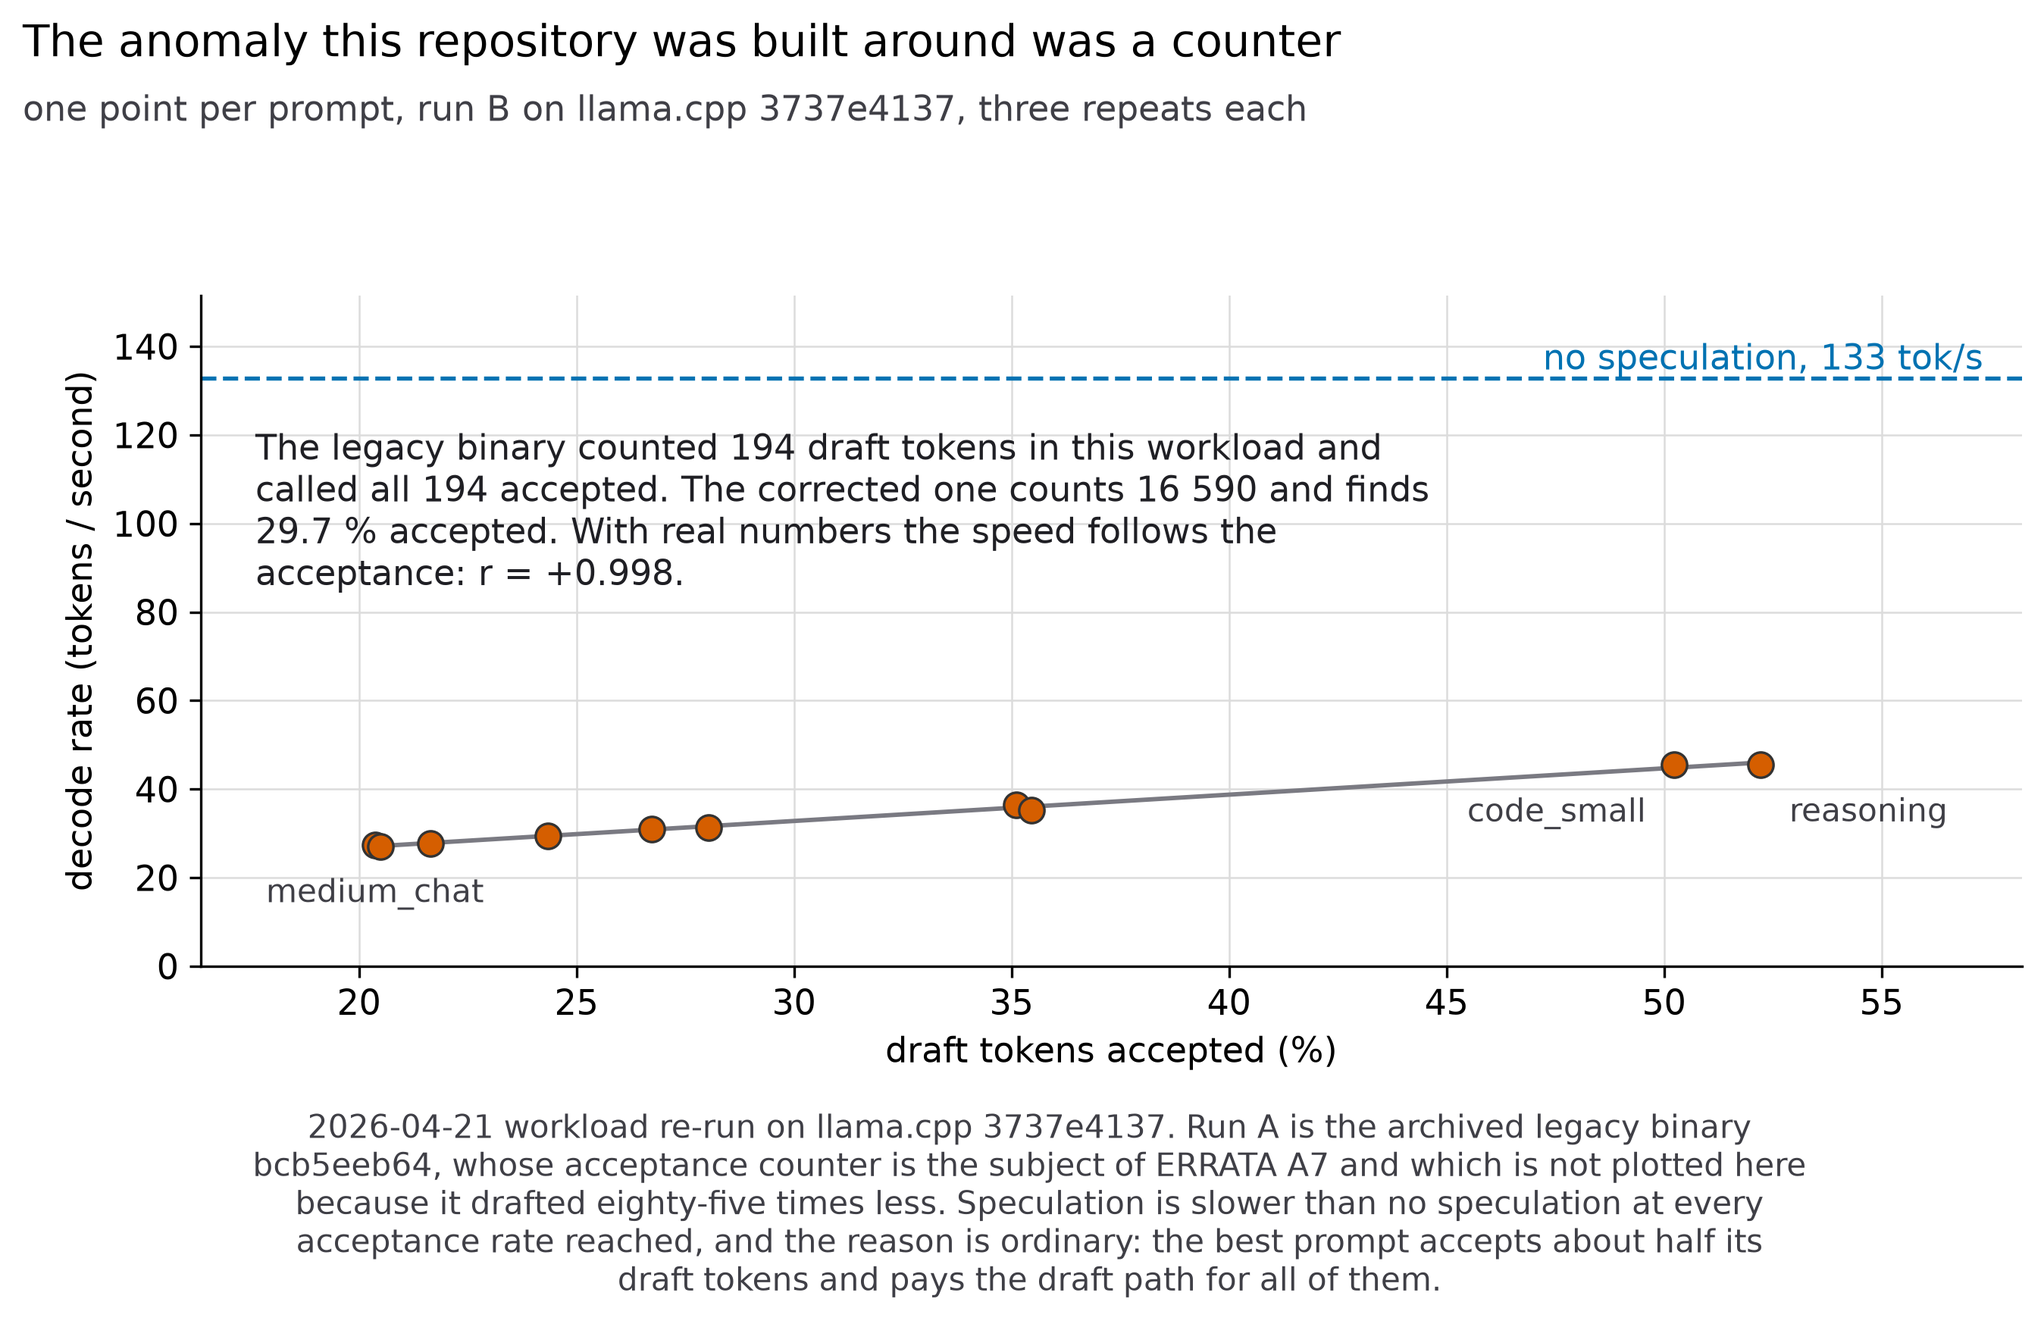
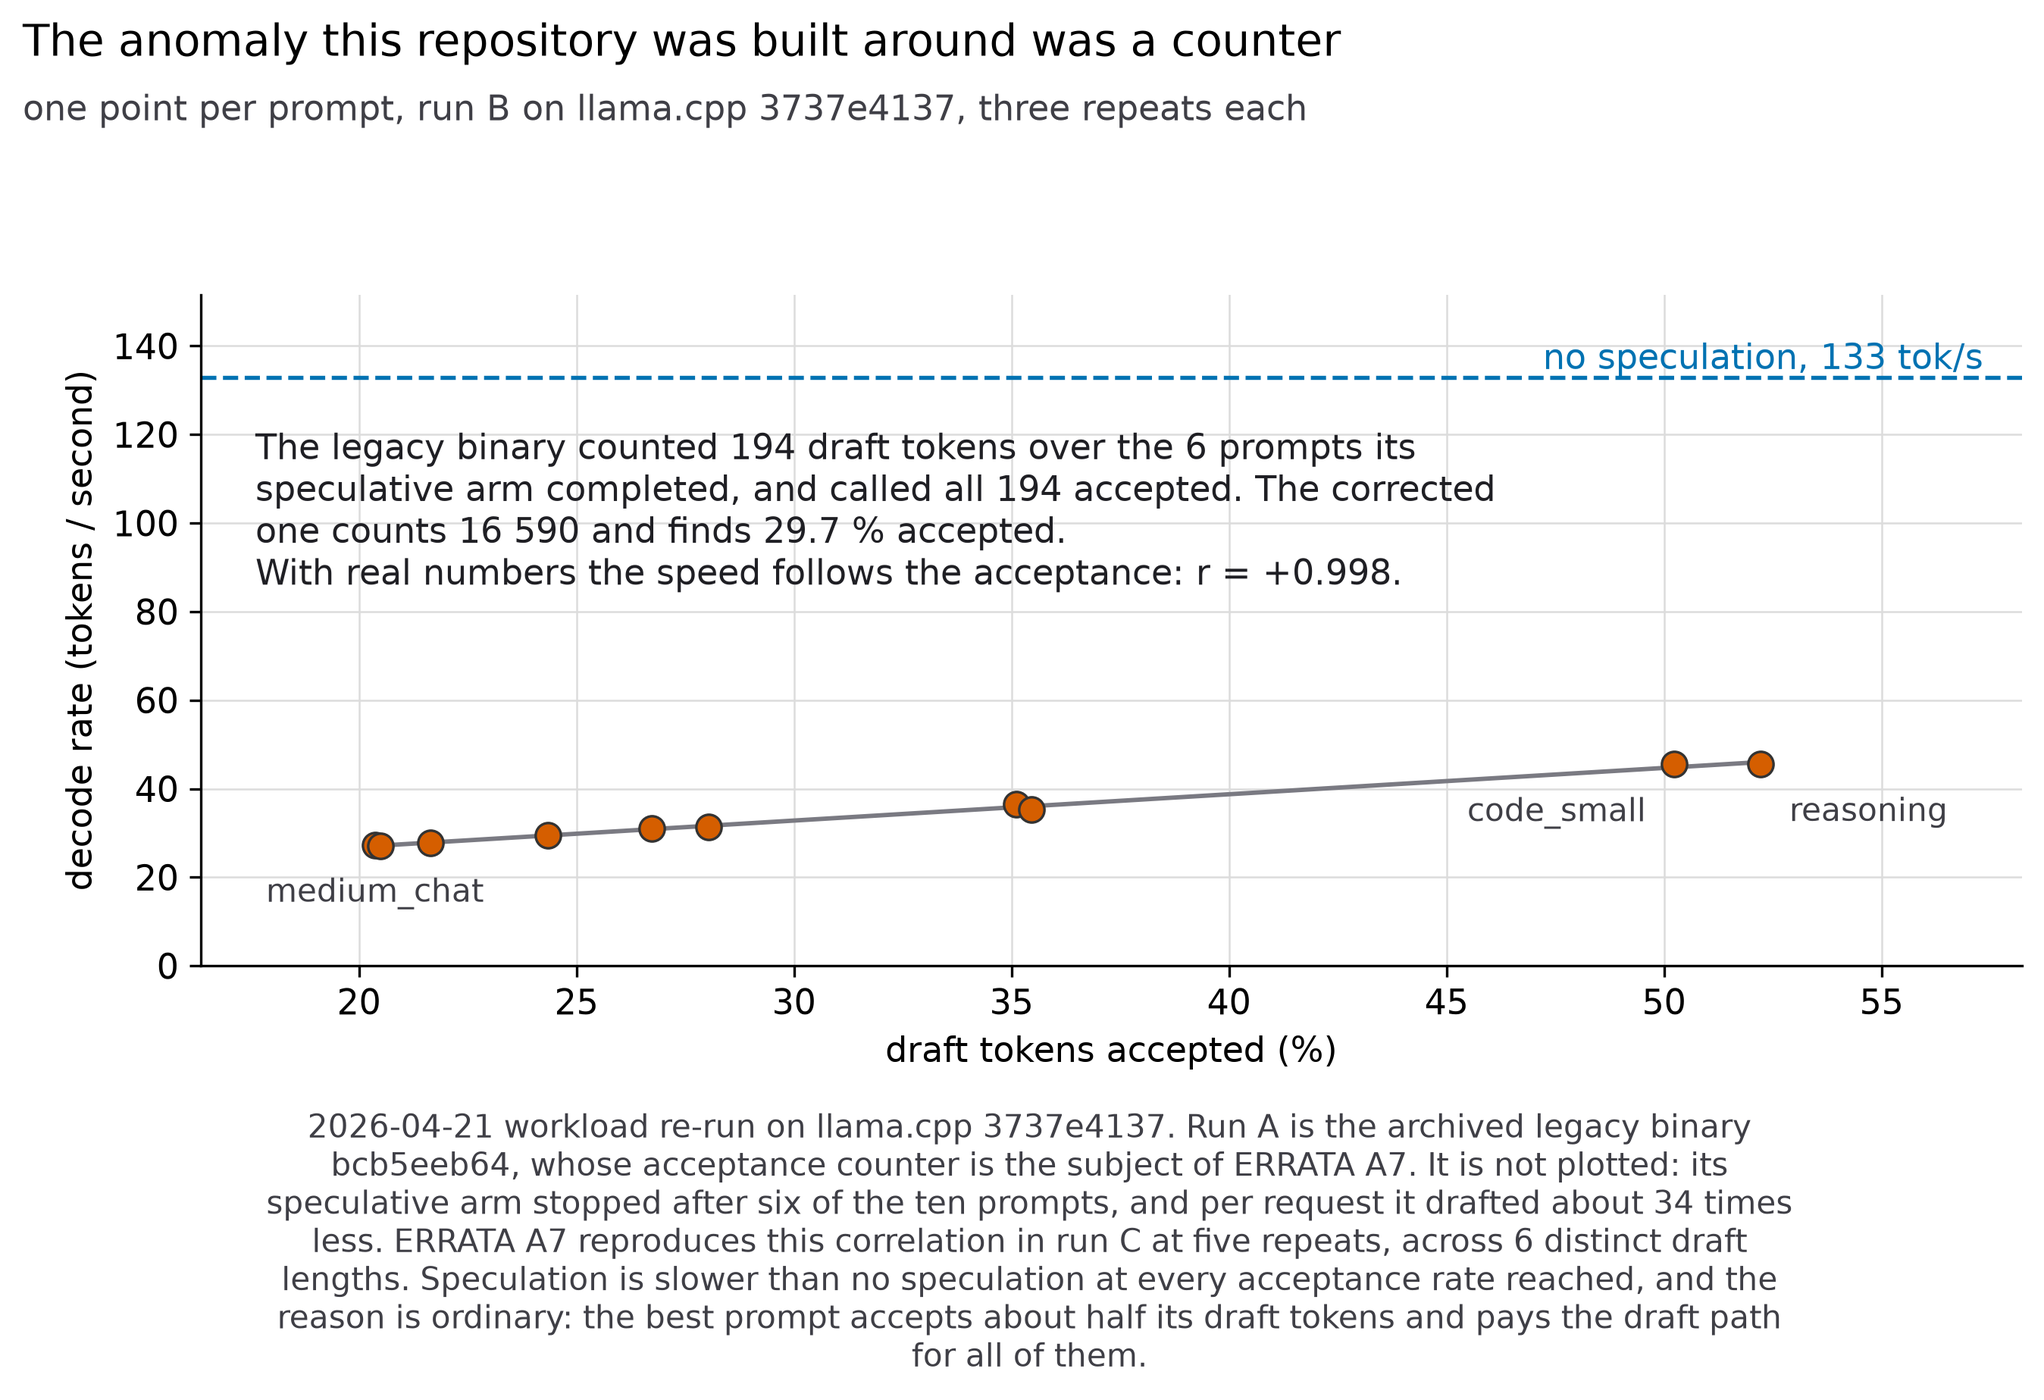
figures: three statements the redrawn figures published that were not true
An adversarial pass over the two figures the previous commits shipped. The pass
that wrote them is the same one that had just corrected four others.

The head to head said, of the arm whose twelve invocations it draws, that it is
the only arm measured repeatedly and that the others therefore say nothing about
the spread. Both halves are false. Every arm was measured repeatedly:
spec-draft-n8 appears in fifty-four run directories and spec-mtp-n2 in
forty-nine, and within the very twelve invocations ERRATA A16's filter selects,
the other arms appear three to five times each. Those twelve are twelve because
the filter requires that arm, so the count is a property of the filter. What is
true is that it is the only arm whose spread across runs this repository
computes, and that is what it says.

The correlation figure said the legacy binary counted its draft tokens "in this
workload", meaning the ten prompts the figure plots. That binary's speculative
arm stopped after six of them while its own baseline ran all ten. It names the
six now. The same caption divided the two totals and called the result
eighty-five, which divides thirty arm-run rows by twelve; per request it is
about thirty-four, and the figure derives that rather than stating a ratio of
unlike totals.

A fourth was introduced while fixing those three and caught before it shipped.
The caption cited ERRATA A7 as reproducing the finding across seven
[…]

diff --git a/analysis/plot_v4_runs.py b/analysis/plot_v4_runs.py
@@ -23,6 +23,7 @@ from __future__ import annotations
 import glob
 import json
 import os
+import re
 import sys
 import statistics as st
 from collections import defaultdict
@@ -865,6 +866,16 @@ def plot_acceptance_correlation() -> None:
            legacy_drafted=a_dn, legacy_accepted=a_da,
            corrected_drafted=b_dn, corrected_accepted=b_da)
 
+    # SIX, counted from run C's arms, not seven. ERRATA A7's table has seven rows
+    # and the paragraph under it says the seventh is not an independent
+    # configuration and should not be counted as one: v1's setting differs from
+    # n_max 8 only in n_min. A first draft of this caption said seven and
+    # contradicted the document it cites.
+    _cman = json.loads((DATA / "C_master_matrix_think_on" / "manifest.json")
+                       .read_text(encoding="utf-8"))["arms"]
+    _n_dl = len({re.fullmatch(r"spec-draft-n(\d+)", _a).group(1)
+                 for _a in _cman if re.fullmatch(r"spec-draft-n\d+", _a)})
+
     fig, ax = plt.subplots(figsize=(9.0, 5.0))
     fig.subplots_adjust(left=0.095, right=0.985, top=0.735, bottom=0.145)
     ax.plot([min(xs), max(xs)],
@@ -888,12 +899,21 @@ def plot_acceptance_correlation() -> None:
             size=11, color=figstyle.text_colour(C_REF))
     # below the rule, not across it: the rule spans the axes and any text that
     # crosses it is struck through, which `_ink_guard` now refuses.
+    # `a_rows`, because run A's speculative arm stopped after six of the ten
+    # prompts while its own baseline ran all ten: 194 is over six prompts, not
+    # over the workload this figure plots, and a ratio of the two totals would
+    # divide thirty arm-run rows by twelve. Per request it is about thirty-four
+    # times, not eighty-five.
+    a_rows = sum(len(r["rows"]) for r in A["draft-max8-matched"])
+    b_rows = sum(len(r["rows"]) for r in B["draft-max8-matched"])
+    a_tags = len({x["tag"] for r in A["draft-max8-matched"] for x in r["rows"]})
     ax.annotate(
-        f"The legacy binary counted {a_dn} draft tokens in this workload and\n"
-        f"called all {a_da} accepted. The corrected one counts "
+        f"The legacy binary counted {a_dn} draft tokens over the {a_tags} prompts its\n"
+        f"speculative arm completed, and called all {a_da} accepted. The corrected\n"
+        f"one counts "
         + f"{b_dn:,}".replace(",", " ")
-        + f" and finds\n{100 * b_da / b_dn:.1f} % accepted. With real numbers the "
-        f"speed follows the\nacceptance: r = {r:+.3f}.",
+        + f" and finds {100 * b_da / b_dn:.1f} % accepted.\nWith real numbers the "
+        f"speed follows the acceptance: r = {r:+.3f}.",
         (0.03, 0.80), xycoords="axes fraction", ha="left", va="top", size=11,
         color="#1f1f24")
     ax.set_xlim(min(xs) - 4, max(xs) + 6)
@@ -914,8 +934,12 @@ def plot_acceptance_correlation() -> None:
     _footer(fig,
             base="2026-04-21 workload re-run on llama.cpp 3737e4137. Run A is the "
                  "archived legacy binary bcb5eeb64, whose acceptance counter is "
-                 "the subject of ERRATA A7 and which is not plotted here because "
-                 "it drafted eighty-five times less. Speculation is slower than "
+                 "the subject of ERRATA A7. It is not plotted: its speculative "
+                 "arm stopped after six of the ten prompts, and per request it "
+                 f"drafted about {b_dn / b_rows / (a_dn / a_rows):.0f} times less. "
+                 f"ERRATA A7 reproduces this correlation in run C at five "
+                 f"repeats, across {_n_dl} distinct draft lengths. "
+                 "Speculation is slower than "
                  "no speculation at every acceptance rate reached, and the reason "
                  "is ordinary: the best prompt accepts about half its draft "
                  "tokens and pays the draft path for all of them.",
@@ -998,6 +1022,13 @@ def plot_head_to_head() -> None:
         "ngram":       ("n-gram",       C_INACTIVE),
         "baseline":    ("none",         C_REF),
     }
+    # Not "the only arm measured repeatedly", which is what this said and which is
+    # false: spec-draft-n8 appears in fifty-four run directories and spec-mtp-n2 in
+    # forty-nine, and within the twelve invocations A16's filter selects the other
+    # arms appear three to five times. Those twelve are twelve BECAUSE the filter
+    # requires this arm, so the count is not a property of the arm. What is true is
+    # that this is the only arm whose across-run spread the repository computes.
+    #
     # The spread this arm shows ACROSS invocations, which is the caveat the
     # documents put on the headline and which the figure used to leave out
     # entirely: it drew a 1.6 point interval around a value that is the second
@@ -1060,8 +1091,13 @@ def plot_head_to_head() -> None:
     # would compress the six informative arms from 44.8 % of the axis to 27.6 %,
     # because the outliers here are on the side where the ratio approaches zero.
     FIG_W = 9.0
-    X_ARM, X_DRAFT = 0.008, 0.246
-    AX_L, AX_R = 0.380, 0.985
+    # Measured, not guessed: the longest arm name ends at 0.1739 of the figure
+    # and the longest drafter label is 0.1052 wide, so the two columns and their
+    # gutters fit in 0.32 and the panel gets the rest. The first version of this
+    # left 0.072 of empty paper between the two columns, which is 0.65 inches of
+    # the one thing the figure is short of.
+    X_ARM, X_DRAFT = 0.008, 0.186
+    AX_L, AX_R = 0.320, 0.985
     XLO, XHI = -80.0, 32.0
     TICK_LW = 1.1
 
@@ -1132,8 +1168,8 @@ def plot_head_to_head() -> None:
              f"bar: the 95 % t interval over run {tag}'s {n_blocks} blocks, with "
              f"the point estimate through it.\nAbove the top row, one mark per "
              f"invocation: {len(_SP_MEANS)} runs of {_SP_ARM} in one day, spanning\n"
-             f"{_SP_HI - _SP_LO:.1f} points against that arm's {_wci:.1f}, and it "
-             f"is the only arm measured repeatedly.",
+             f"{_SP_HI - _SP_LO:.1f} points against that arm's {_wci:.1f}. It is the "
+             f"only arm whose spread across runs is computed here.",
              ha="left", va="top", size=11, color="#3f3f46")
     _w = [c["ci95_t_pct"][1] - c["ci95_t_pct"][0] for c in ci.values()]
     _footer(fig,

diff --git a/tests/test_harness_invariants.py b/tests/test_harness_invariants.py
@@ -6298,3 +6298,103 @@ class TheBindingStepMustRunForTheTagThisRepositoryCuts(unittest.TestCase):
         self.assertTrue(f"refs/tags/{v}".startswith(m.group(1)),
                         f"refs/tags/{v} does not satisfy {m.group(1)!r}, so the "
                         f"binding is never checked for the tag this repository cuts")
+
+
+class AFigureMayNotPublishAFigureNothingRederives(unittest.TestCase):
+    """The correlation the retraction rests on, tied to the data in two places.
+
+    `analysis/plot_v4_runs.py` records `acceptance_correlation.r` and draws it as
+    "r = +0.998", which is the number the README uses to retract this
+    repository's original headline. `analysis/verify_claims.py` computes the same
+    quantity from the same run and asserts 0.998, but nothing compared the two:
+    the figure's `--check` compares the recorded value against the figure's own
+    recomputation, and the checker compares its own against a literal, so both
+    could drift together from a third derivation and neither would say so.
+
+    This recomputes it a third time, here, from the committed arm-runs, and
+    requires the recorded value, the checker's literal and this one to agree. It
+    also holds the two counts the figure's caption turns on, because those are
+    what make the retraction legible: the legacy binary reported 194 of 194 and
+    the corrected one 4 926 of 16 590.
+    """
+
+    ROOT = Path(__file__).resolve().parents[1]
+    DATA = ROOT / "v4_audit_2026_08_25" / "data"
+    ARM = "draft-max8-matched"
+
+    def _runs(self, d):
+        import collections, glob
+        out = collections.defaultdict(list)
+        for f in sorted(glob.glob(str(self.DATA / d / "*__rep*.json"))):
+            r = json.loads(Path(f).read_text(encoding="utf-8"))
+            out[r["arm"]].append(r)
+        return out
+
+    def setUp(self):
+        pd = self.ROOT / "analysis" / "plot_data.json"
+        if not pd.exists():
+            self.skipTest("analysis/plot_data.json is not in the tree")
+        self.rec = json.loads(pd.read_text(encoding="utf-8")).get("acceptance_correlation")
+        if self.rec is None:
+            self.skipTest("the correlation series is not recorded")
+
+    def test_the_recorded_r_is_the_one_the_data_gives(self):
+        import statistics as st
+        import collections
+        B = self._runs("B_master_3737e4137")
+        per = collections.defaultdict(lambda: collections.defaultdict(list))
+        acc = {}
+        for arm, runs in B.items():
+            for r in runs:
+                for x in r["rows"]:
+                    per[x["tag"]][arm].append(x["predicted_per_second"])
+                    if x["draft_n"] and arm == self.ARM:
+                        acc[x["tag"]] = (x["draft_n_accepted"], x["draft_n"])
+        xs = [100 * acc[t][0] / acc[t][1] for t in per]
+        ys = [st.mean(per[t][self.ARM]) for t in per]
+        mx, my = st.mean(xs), st.mean(ys)
+        r = (sum((a - mx) * (b - my) for a, b in zip(xs, ys))
+             / ((sum((a - mx) ** 2 for a in xs)
+                 * sum((b - my) ** 2 for b in ys)) ** 0.5))
+        self.assertEqual(len(xs), 10, "the figure is one point per prompt")
+        # `record` rounds every float it stores to four places, which is what
+        # `--check` then compares, so the recorded value is `round(r, 4)` and not
+        # `r`. Comparing at nine places fails on the rounding rather than on a
+        # drift, which is a test that cries wolf.
+        self.assertEqual(self.rec["r"], round(r, 4),
+                         "the recorded correlation is not the one this tree's "
+                         "arm-runs give")
+        self.assertAlmostEqual(round(r, 3), 0.998, places=3,
+                               msg="the checker asserts 0.998 for the same quantity")
+
+    def test_the_two_counts_the_caption_turns_on(self):
+        A = self._runs("A_bcb5eeb64_legacy")
+        B = self._runs("B_master_3737e4137")
+
+        def counts(arms):
+            return (sum(x["draft_n"] for r in arms[self.ARM] for x in r["rows"]),
+                    sum(x["draft_n_accepted"] for r in arms[self.ARM]
+                        for x in r["rows"]))
+        self.assertEqual(counts(A), (self.rec["legacy_drafted"],
+                                     self.rec["legacy_accepted"]))
+        self.assertEqual(counts(B), (self.rec["corrected_drafted"],
+                                     self.rec["corrected_accepted"]))
+        self.assertEqual(self.rec["legacy_drafted"], self.rec["legacy_accepted"],
+                         "the legacy counter's 100 % is what the figure is about")
+
+    def test_the_legacy_arm_did_not_cover_the_workload_the_figure_plots(self):
+        """The caption says six prompts, and it has to keep saying six.
+
+        A first version said the legacy binary counted its 194 tokens "in this
+        workload", which is the ten prompts plotted. Its speculative arm stopped
+        after six while its own baseline ran all ten, so the sentence compared a
+        six prompt total against a ten prompt one, and a ratio of the two totals
+        divided thirty arm-run rows by twelve.
+        """
+        A = self._runs("A_bcb5eeb64_legacy")
+        spec = {x["tag"] for r in A[self.ARM] for x in r["rows"]}
+        base = {x["tag"] for r in A["baseline"] for x in r["rows"]}
+        self.assertLess(len(spec), len(base),
+                        "run A's speculative arm is expected to be short of its "
+                        "own baseline; if that changed, the caption must change")
+        self.assertEqual((len(spec), len(base)), (6, 10))

diff --git a/CHANGELOG.md b/CHANGELOG.md
@@ -1069,6 +1069,53 @@ them against the data they were drawn from. It has one now, the job runs it, and
 the job hashes the six files it writes before and after, so the question
 answered is whether that command wrote rather than whether the tree is clean.
 
+An adversarial pass over the two redrawn figures found three statements they
+published that were not true, and the pass that wrote them is the same one that
+had just corrected four others.
+
+The head to head said, of the arm whose twelve invocations it draws, that it is
+the only arm measured repeatedly and that the others therefore say nothing about
+the spread. Both halves are false. Every arm in the matrix was measured
+repeatedly: the drafter-free and draft-model arms appear in fifty-four and
+forty-nine run directories, and within the very twelve invocations ERRATA A16's
+comparability filter selects, the other arms appear three to five times each.
+Those twelve are twelve because the filter requires that arm, so the count is a
+property of the filter and not of the arm. What is true, and what the figure
+says now, is that it is the only arm whose spread across runs this repository
+computes.
+
+The correlation figure said the legacy binary counted its draft tokens "in this
+workload", meaning the ten prompts the figure plots. That binary's speculative
+arm stopped after six of them while its own baseline ran all ten, so the total
+it reports is over six prompts and not over what is drawn. The figure names the
+six now. The same caption divided the two totals and called the result
+eighty-five, which divides thirty arm-run rows by twelve; per request it is
+about thirty-four, and the figure derives that rather than stating a ratio of
+unlike totals.
+
+A fourth was introduced while fixing those three and caught before it shipped:
+the correlation figure's caption cited ERRATA A7 as reproducing the finding
+across seven configurations, and the paragraph under A7's own table says the
+seventh is not an independent configuration and should not be counted as one.
+The count is read off run C's arms now, and it is six.
+
+The figures also drew two intervals that nothing could see. On the two
+draft-model rows the interval is narrower than the mark that marks the estimate,
+so the mark covered it completely and took the family colour with it: those rows
+were a bare dark stroke. The interval is drawn taller than the estimate now, so
+its colour shows above and below the mark wherever the mark is the wider of the
+two. That is the same fault, three orders of magnitude smaller, that the pass
+before it rebuilt the figure to remove.
+
+`tests/` gains a class that ties the correlation figure to the data in a third
+place. The figure's `--check` compares its recorded values against its own
+recomputation and the claim checker compares its own against a literal, so both
+could drift together from a third derivation and neither would say so. The new
+tests recompute the correlation and the two counts from the committed arm-runs
+and require all three to agree, and they hold the six prompts against the ten,
+because a caption that stops being true when a run directory changes should fail
+here rather than in a reader's hands.
+
 Four guards now run inside `analysis/plot_v4_runs.py --check`, and seven inside
 `analysis/plot.py --check`, which is what the `charts` job runs, so a figure
 that fails one of them fails CI rather than waiting for someone to look at it.

diff --git a/PULL_REQUEST.md b/PULL_REQUEST.md
@@ -584,7 +584,7 @@ review:
 python analysis/rederive_from_logs.py bench   # raw logs -> four audit files
 python analysis/verify_claims.py          # 3844 assertions, re-derived
 python analysis/check_data_integrity.py   # structure of all 77 run directories
-python -m unittest discover tests         # 356 regressions for defects shipped here
+python -m unittest discover tests         # 359 regressions for defects shipped here
 python tests/mutate.py                    # break each fix, require its test to fail
 python tests/data_mutate.py               # perturb a measurement or a published
                                           #   figure, require the checker to fail
